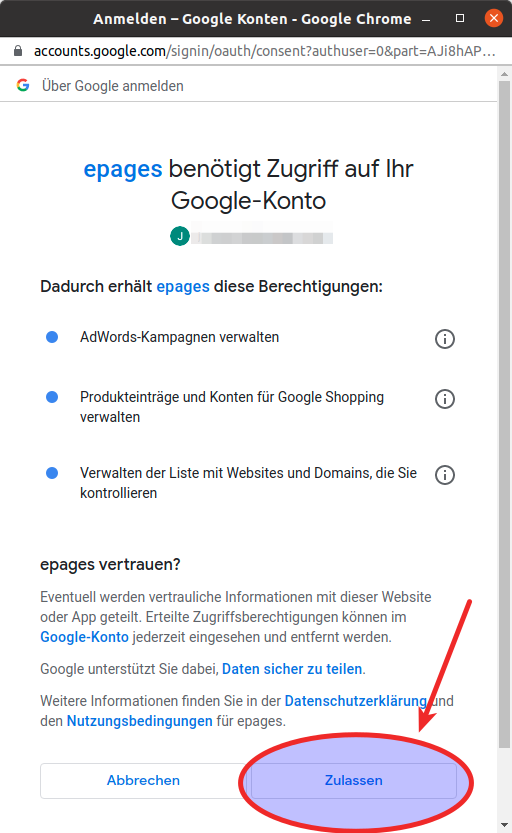
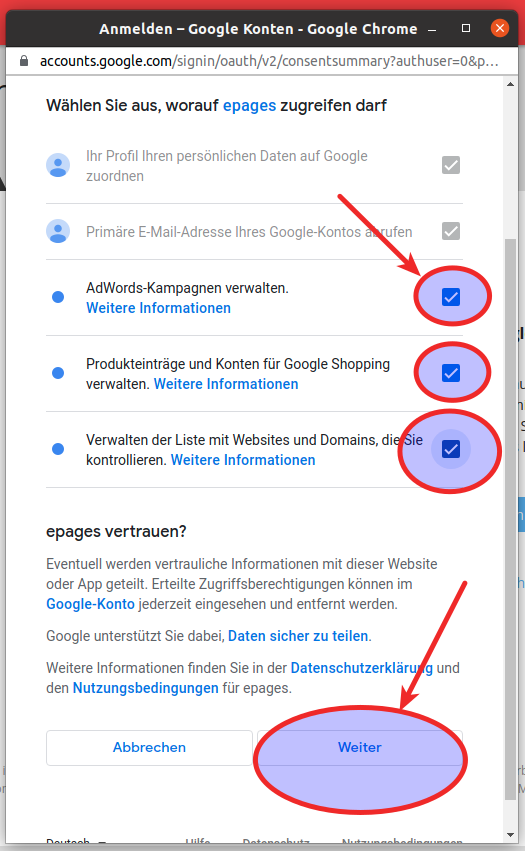
Update google account login

diff --git a/content/einrichtung/google-account/3_autorisierung.md b/content/einrichtung/google-account/3_autorisierung.md
@@ -6,6 +6,6 @@ Füllen Sie die Formular-Felder für die Anmeldung bei Google aus und klicken Si
 
 ![Anmeldung](img/anmeldung.png)
 
-Im letzen Schritt der Google Formulare, bestätigen Sie dass Ihr Onlineshop Zugriff auf Ihr Google Konto bekommt, in dem Sie die angeforderten Berechtigungen mit einem Klick auf den "Zulassen" Button bestätigen.
+Im letzen Schritt der Google Formulare, bestätigen Sie dass Ihr Onlineshop Zugriff auf Ihr Google Konto bekommt, die Kontrollkästchen für die verschiedenen Berechtigungen anhaken und dann auf "Weiter" klicken.
 
 ![API Berechtigungen](img/api-berechtigungen.png)

diff --git a/content/einrichtung/_index.md b/content/einrichtung/_index.md
@@ -1,6 +1,6 @@
 ---
 weight: 1
-title: Accounts einrichten
+title: Konten einrichten
 teaser: Verbinden Sie sich mit Google Shopping und Google Ads.
 icon: fab fa-google
 ---

diff --git a/content/einrichtung/google-account/_index.md b/content/einrichtung/google-account/_index.md
@@ -1,5 +1,5 @@
 ---
-title: Google Account
+title: Google Konto
 type: tutorial
 weight: 1
 ---
